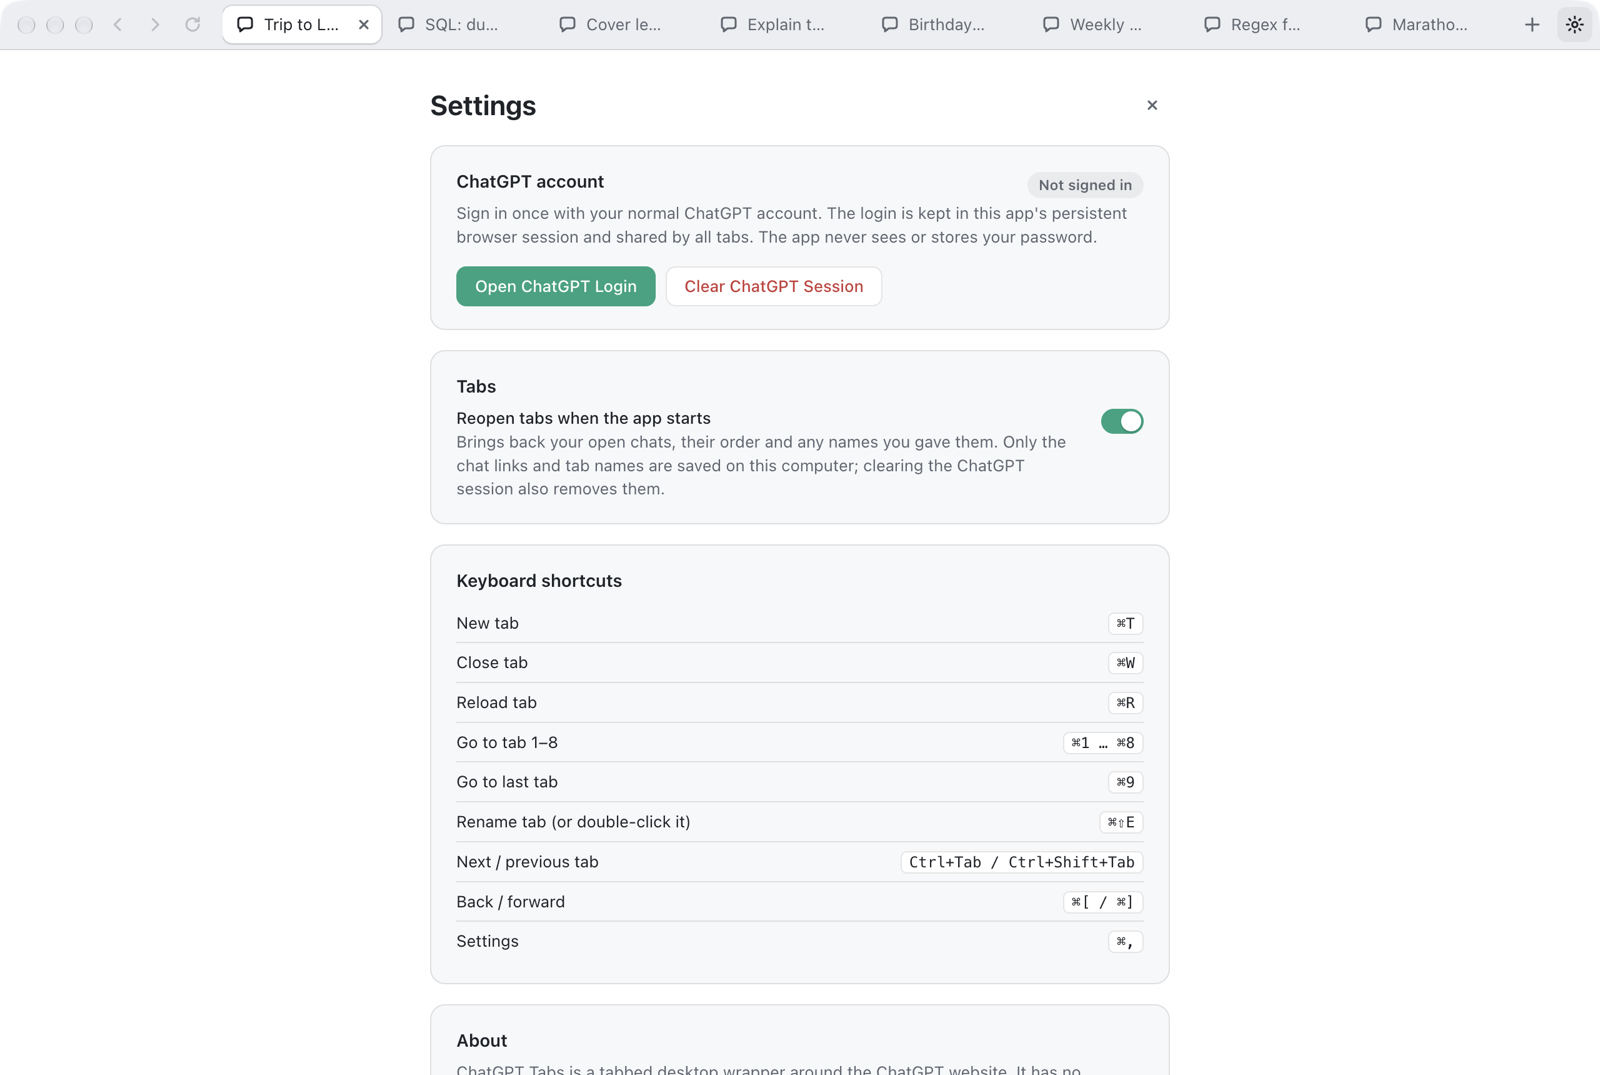
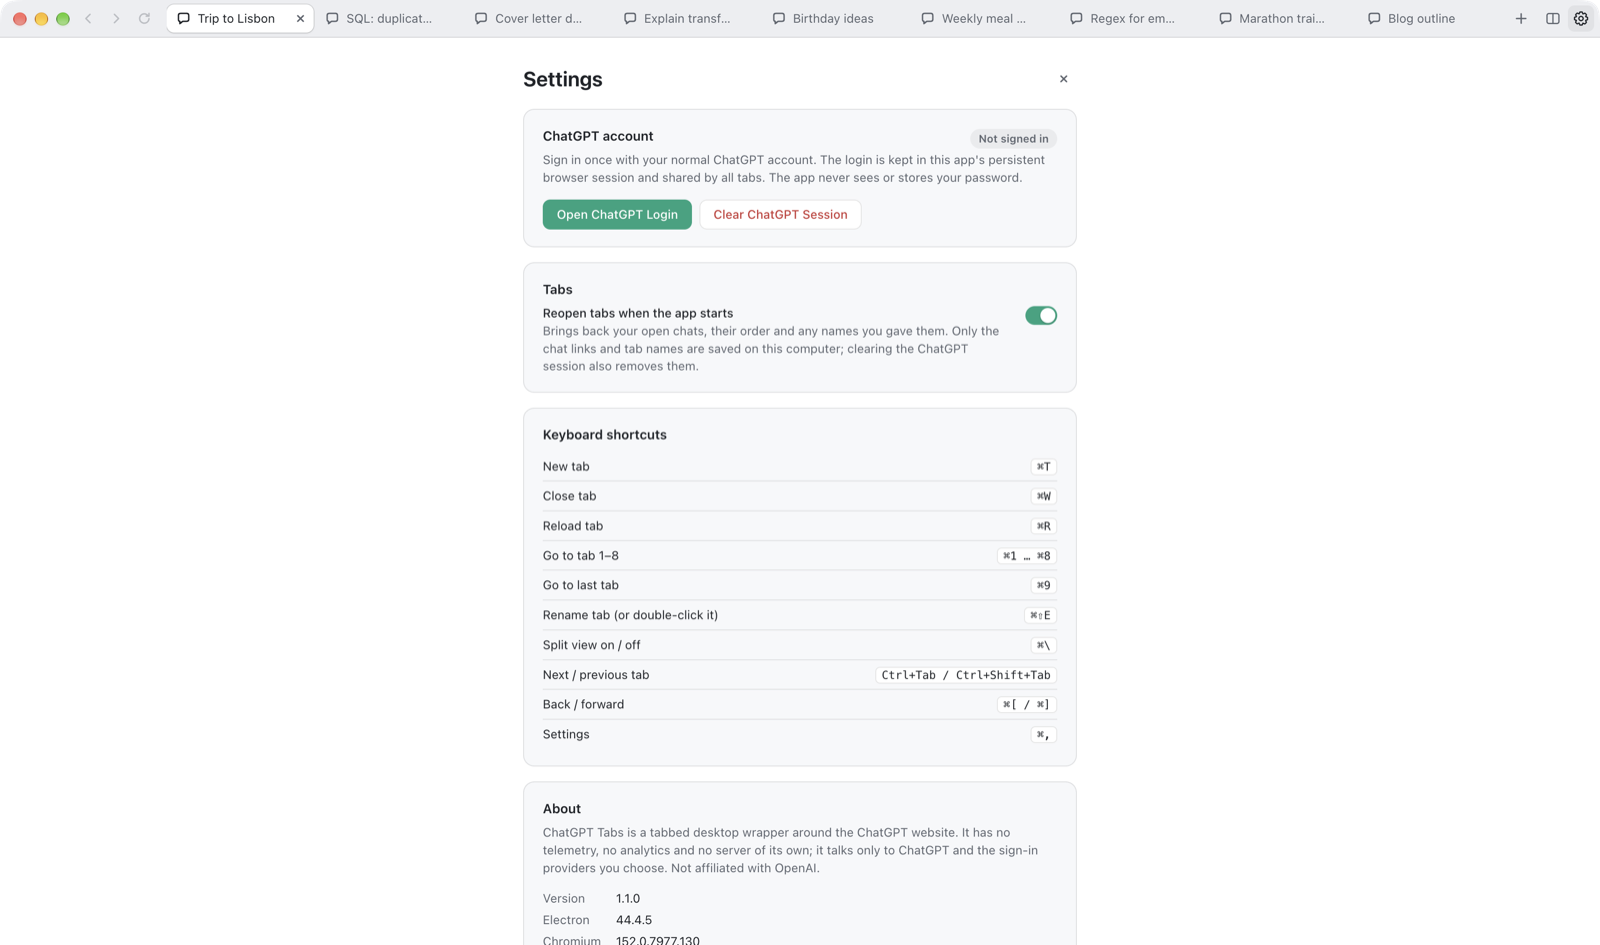
Fresh screenshots (settings gear, split button) and a split-view section on the website and README
Claude-Session: https://claude.ai/code/session_011fA8CZoJpRfCfaGooupGKW

diff --git a/site/index.html b/site/index.html
@@ -289,6 +289,17 @@
     </div>
   </section>
 
+  <section>
+    <div class="headline">
+      <h2>Two chats.<br>Side by side.</h2>
+      <p>Click the two-column button and work in two columns at once. <strong>Each side has its own tabs</strong>, so you can compare answers, draft in one and research in the other.</p>
+    </div>
+    <div class="stage wrap">
+      <img class="window-shot" src="img/split.png" width="1600" height="945" loading="lazy"
+           alt="ChatGPT Tabs in split view: a SQL question on the left and a blog outline on the right, each column with its own tab strip.">
+    </div>
+  </section>
+
   <section class="night">
     <div class="headline">
       <h2>Easy on the eyes<br>after dark.</h2>

diff --git a/README.md b/README.md
@@ -67,8 +67,10 @@ You can check the signature yourself: `spctl --assess --verbose "/Applications/C
 | Many chats side by side | Renaming a tab |
 | --- | --- |
 | ![Eight named tabs](site/img/many-tabs.png) | ![Renaming a tab inline](site/img/rename.png) |
-| **Dark mode** | **Settings** |
-| ![Dark mode](site/img/dark.png) | ![Settings screen with the Reopen tabs option](site/img/settings.png) |
+| **Split view** | **Dark mode** |
+| ![Two columns side by side, each with its own tabs](site/img/split.png) | ![Dark mode](site/img/dark.png) |
+| **Settings** | |
+| ![Settings screen with the Reopen tabs option](site/img/settings.png) | |
 
 The screenshots are taken from the real app by `node scripts/capture-screenshots.mjs` (macOS, after packaging). It uses a throw-away profile and no account; prompts are typed into the composer but never sent.
 
